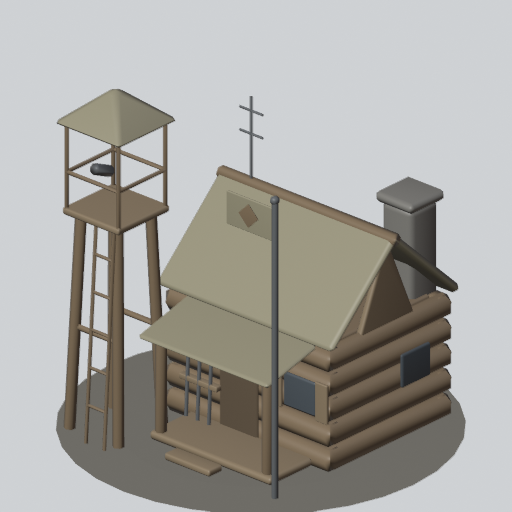
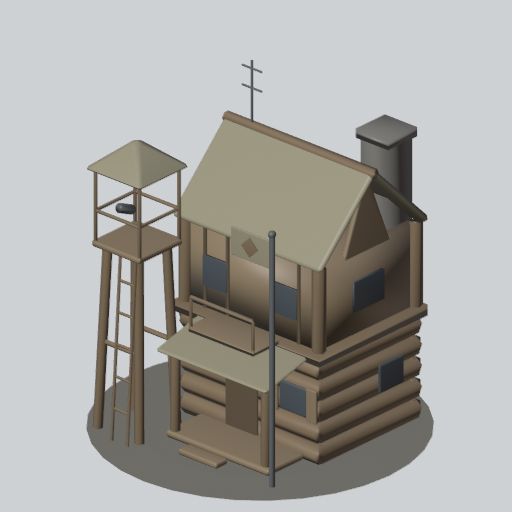
art: Ranger Station (RANGER) bolder upgrades - S1 two-storey lodge with balcony and taller chimney, S2 raised lookout with glowing searchlight, antlers, brass ridge and vane, taller flag (#443)

diff --git a/tools/art/models/tower/_ranger.py b/tools/art/models/tower/_ranger.py
@@ -8,10 +8,13 @@ right corner (the owner flag's) is kept clear: the cabin stops at x 0.8.
 Stage 0 (tiers 0-2): the cabin (log walls, door, shuttered window, sign board), the gable
                      roof, the porch and step, the chimney, the lookout with its ladder and
                      roof, the flagpole and khaki pennant.
-Stage 1 (tier 3):    a radio aerial on the roof, a spotting scope on the lookout, a firewood
-                     pile, a rifle rack on the porch.
-Stage 2 (tier 5):    brass bell on the lookout, a brass badge on the sign, brass lamp on the
-                     porch with a glowing lamp, glowing windows.
+Stage 1 (tier 3):    a TWO-STOREY LODGE - a board-and-batten upper storey on the log cabin with
+                     windows and a little front balcony, the gable roof raised on top, a
+                     taller chimney, a radio aerial, a spotting scope on the lookout.
+Stage 2 (tier 5):    the lookout rises a storey higher with a glowing searchlight and a brass
+                     bell, a brass ridge cap, a great pair of antlers on the upper storey's front with a brass weather vane
+                     on the ridge (the crown), a taller flagpole with a bigger pennant and a
+                     brass finial, glowing windows, a brass porch lamp.
 """
 
 import importlib.util
@@ -36,30 +39,45 @@ RIDGE = 2.2
 def build(lp, stage):
     k = K.Kit(lp)
     hot = stage >= 2
+    lean = stage >= 1
+    wh = WH if stage == 0 else 2.5  # the walls: the lodge grows a second storey
+    ridge = RIDGE if stage == 0 else 3.4
     cx, cz = (CX0 + CX1) / 2, (CZ0 + CZ1) / 2
     w, d = CX1 - CX0, CZ1 - CZ0
 
     # log walls: a core with horizontal logs on the front and sides, log ends at the corners
-    k.add("wood", K.rbox((cx, WH / 2, cz), (w - 0.1, WH, d - 0.1), bevel=0.04))
+    k.add("wood", K.rbox((cx, WH / 2, cz), (w - 0.1, WH, d - 0.1), bevel=0.04 if not lean else 0))
     logs, ends = [], []
     for i in range(5):
         y = 0.14 + i * 0.27
-        logs.append(K.rod((CX0 - 0.04, y, CZ0), (CX1 + 0.04, y, CZ0), 0.13, 6))  # front
-        logs.append(K.rod((CX0, y, CZ0 - 0.04), (CX0, y, CZ1 + 0.04), 0.13, 6))  # left
-        logs.append(K.rod((CX1, y, CZ0 - 0.04), (CX1, y, CZ1 + 0.04), 0.13, 6))  # right
-        logs.append(K.rod((CX0 - 0.04, y, CZ1), (CX1 + 0.04, y, CZ1), 0.13, 6))  # back
+        sg = 5 if lean else 6
+        logs.append(K.rod((CX0 - 0.04, y, CZ0), (CX1 + 0.04, y, CZ0), 0.13, sg))  # front
+        logs.append(K.rod((CX0, y, CZ0 - 0.04), (CX0, y, CZ1 + 0.04), 0.13, sg))  # left
+        logs.append(K.rod((CX1, y, CZ0 - 0.04), (CX1, y, CZ1 + 0.04), 0.13, sg))  # right
+        logs.append(K.rod((CX0 - 0.04, y, CZ1), (CX1 + 0.04, y, CZ1), 0.13, sg))  # back
     k.add("log", *logs)
+    if lean:  # the upper storey: board-and-batten walls, corner posts, a log band at the floor line
+        k.add("plank", K.rbox((cx, (WH + wh) / 2, cz), (w + 0.06, wh - WH, d + 0.06), bevel=0))
+        k.add("log", *[K.rod((x, WH, z), (x, wh + 0.02, z), 0.09, 5) for x in (CX0 - 0.03, CX1 + 0.03) for z in (CZ0 - 0.03, CZ1 + 0.03)],
+              K.rbox((cx, WH + 0.04, cz), (w + 0.26, 0.14, d + 0.26), bevel=0))
+        k.add("dark", *[K.rbox((x, (WH + wh) / 2, CZ0 - 0.035), (0.04, wh - WH, 0.03), bevel=0) for x in (-0.95, -0.55, 0.15, 0.5)])  # battens
+        k.add("glow" if hot else "window", *[K.rbox((x, WH + 0.6, CZ0 - 0.05), (0.36, 0.38, 0.05), bevel=0) for x in (-0.75, 0.33)],
+              K.rbox((CX0 - 0.05, WH + 0.6, cz), (0.05, 0.38, 0.5), bevel=0), piece="windows2")
+        # a little front balcony on the porch roof line
+        k.add("plank", K.rbox((-0.22, WH + 0.1, CZ0 - 0.32), (1.0, 0.07, 0.5), bevel=0))
+        k.add("wood", *[K.rod((-0.22 + sx * 0.48, WH + 0.1, CZ0 - 0.55), (-0.22 + sx * 0.48, WH + 0.5, CZ0 - 0.55), 0.025, 4) for sx in (-1, 1)],
+              K.rod((-0.7, WH + 0.5, CZ0 - 0.55), (0.26, WH + 0.5, CZ0 - 0.55), 0.03, 4))
     # the gable roof (ridge along x), khaki canvas over battens, gable ends in planks
     half = d / 2 + 0.1
-    pitch = math.atan2(RIDGE - WH, half)
-    slab = math.hypot(RIDGE - WH, half) + 0.08
+    pitch = math.atan2(ridge - wh, half)
+    slab = math.hypot(ridge - wh, half) + 0.08
     for s in (-1, 1):
-        k.add("body", K.rbox((cx, (WH + RIDGE) / 2 + 0.06, cz + s * half / 2), (w + 0.3, 0.1, slab), bevel=0.04,
+        k.add("body", K.rbox((cx, (wh + ridge) / 2 + 0.06, cz + s * half / 2), (w + 0.3, 0.1, slab), bevel=0.04,
                              rot=(s * math.degrees(pitch), 0, 0)))
-    k.add("log", K.rod((CX0 - 0.15, RIDGE + 0.06, cz), (CX1 + 0.15, RIDGE + 0.06, cz), 0.07, 6))
+    k.add("brass" if hot else "log", K.rod((CX0 - 0.15, ridge + 0.06, cz), (CX1 + 0.15, ridge + 0.06, cz), 0.07 if not hot else 0.1, 6))
     gable = []
     for x in (CX0, CX1):
-        gable.append(K.rbox((x, (WH + RIDGE) / 2 - 0.08, cz), (0.08, RIDGE - WH - 0.05, d * 0.5), bevel=0.02, taper=(1.0, 0.15)))
+        gable.append(K.rbox((x, (wh + ridge) / 2 - 0.08, cz), (0.08, ridge - wh - 0.05, d * 0.5), bevel=0.02, taper=(1.0, 0.15)))
     k.add("plank", *gable)
 
     # door, window with shutters, sign board over the door
@@ -78,13 +96,14 @@ def build(lp, stage):
     k.add("body", K.rbox((-0.3, 1.27, pz - 0.05), (1.7, 0.07, 0.75), bevel=0.03, rot=(-14, 0, 0)))
 
     # stone chimney at the back-left
-    k.add("stone", K.rbox((CX0 + 0.3, 1.15, CZ1 - 0.1), (0.42, 2.3, 0.42), bevel=0.06),
-          K.rbox((CX0 + 0.3, 2.35, CZ1 - 0.1), (0.5, 0.12, 0.5), bevel=0.04))
+    ch = 2.3 if stage == 0 else 3.55
+    k.add("stone", K.rbox((CX0 + 0.3, ch / 2, CZ1 - 0.1), (0.42, ch, 0.42), bevel=0.06 if not lean else 0),
+          K.rbox((CX0 + 0.3, ch + 0.05, CZ1 - 0.1), (0.5, 0.12, 0.5), bevel=0.04 if not lean else 0))
 
     # the lookout at the front-right: four legs, a deck, a rail, a little roof, a ladder
-    lx, lz, ly = 1.0, -1.0, 2.35
+    lx, lz, ly = 1.0, -1.0, (2.35 if stage < 2 else 3.2)
     legs = [K.rod((lx + sx * 0.32, 0, lz + sz * 0.32), (lx + sx * 0.24, ly, lz + sz * 0.24), 0.06, 6) for sx in (-1, 1) for sz in (-1, 1)]
-    legs += [K.rod((lx - 0.3, 1.1, lz + sz * 0.28), (lx + 0.3, 1.1, lz + sz * 0.28), 0.035, 4) for sz in (-1, 1)]
+    legs += [K.rod((lx - 0.3, y, lz + sz * 0.28), (lx + 0.3, y, lz + sz * 0.28), 0.035, 4) for sz in (-1, 1) for y in ((1.1,) if stage < 2 else (1.1, 2.2))]
     k.add("log", *legs)
     k.add("plank", K.rbox((lx, ly, lz), (0.75, 0.08, 0.75), bevel=0.02))
     rail = [K.rod((lx + sx * 0.34, ly, lz + sz * 0.34), (lx + sx * 0.34, ly + 0.95, lz + sz * 0.34), 0.03, 4) for sx in (-1, 1) for sz in (-1, 1)]
@@ -93,39 +112,55 @@ def build(lp, stage):
     k.add("wood", *rail)
     k.add("body", K.rbox((lx, ly + 1.12, lz), (0.9, 0.35, 0.9), bevel=0.04, taper=(0.1, 0.1)))
     ladder = [K.rod((lx - 0.15 + dx, 0, lz - 0.47), (lx - 0.15 + dx, ly, lz - 0.32), 0.025, 4) for dx in (-0.12, 0.12)]
-    ladder += [K.rod((lx - 0.27, y, lz - 0.47 + 0.15 * y / ly), (lx - 0.03, y, lz - 0.47 + 0.15 * y / ly), 0.02, 4) for y in (0.4, 0.8, 1.2, 1.6, 2.0)]
+    ladder += [K.rod((lx - 0.27, y, lz - 0.47 + 0.15 * y / ly), (lx - 0.03, y, lz - 0.47 + 0.15 * y / ly), 0.02, 4)
+               for y in ((0.4, 0.8, 1.2, 1.6, 2.0) if stage < 2 else (0.4, 0.9, 1.4, 1.9, 2.4, 2.9))]
     k.add("wood", *ladder)
 
     # flagpole at the front-left with a khaki pennant
     fx, fzz = -1.22, -1.15
-    k.add("metal", K.rod((fx, 0, fzz), (fx, 3.2, fzz), 0.035, 6), K.ell((fx, 3.22, fzz), (0.05, 0.05, 0.05), 6, 4))
-    k.add("body", K.rbox((fx + 0.33, 2.95, fzz), (0.6, 0.36, 0.03), bevel=0.01))
-    k.add("log", K.rbox((fx + 0.33, 2.95, fzz - 0.02), (0.18, 0.18, 0.01), bevel=0.0, rot=(0, 0, 45)))  # a pine-brown diamond
+    fh, fs = (3.2, 1.0) if stage < 2 else (4.35, 1.6)  # flagpole height, pennant scale
+    k.add("metal", K.rod((fx, 0, fzz), (fx, fh, fzz), 0.035 if stage < 2 else 0.05, 6))
+    k.add("brass" if hot else "metal", K.ell((fx, fh + 0.02, fzz), (0.05 * fs, 0.05 * fs, 0.05 * fs), 6, 4))
+    k.add("body", K.rbox((fx + 0.03 + 0.3 * fs, fh - 0.25 * fs, fzz), (0.6 * fs, 0.36 * fs, 0.03), bevel=0.01))
+    k.add("log", K.rbox((fx + 0.03 + 0.3 * fs, fh - 0.25 * fs, fzz - 0.02), (0.18 * fs, 0.18 * fs, 0.01), bevel=0.0, rot=(0, 0, 45)))  # a pine-brown diamond
 
     brass = []
     if stage >= 1:
         # a radio aerial on the roof
-        k.add("metal", K.rod((CX1 - 0.25, RIDGE, cz), (CX1 - 0.25, RIDGE + 1.0, cz), 0.02, 4),
-              *[K.rod((CX1 - 0.4, RIDGE + y, cz), (CX1 - 0.1, RIDGE + y, cz), 0.015, 4) for y in (0.6, 0.85)])
+        k.add("metal", K.rod((CX1 - 0.25, ridge, cz), (CX1 - 0.25, ridge + 0.9, cz), 0.02, 4),
+              *[K.rod((CX1 - 0.4, ridge + y, cz), (CX1 - 0.1, ridge + y, cz), 0.015, 4) for y in (0.55, 0.8)])
         # a spotting scope on the lookout rail
         k.add("metal", K.rod((lx - 0.1, ly + 0.52, lz - 0.2), (lx - 0.1, ly + 0.62, lz - 0.42), 0.06, 8))
-        # firewood pile against the right wall (clear of the flag corner)
-        logs2 = [K.rod((1.0 + c * 0.13 + r * 0.065, 0.08 + r * 0.12, 0.05), (1.0 + c * 0.13 + r * 0.065, 0.08 + r * 0.12, 0.6), 0.06, 6)
-                 for r in range(3) for c in range(3 - r)]
-        k.add("firewood", *logs2)
-        # a rifle rack on the porch
-        k.add("plank", K.rbox((0.3, 0.55, CZ0 - 0.2), (0.5, 0.06, 0.08), bevel=0.01))
-        k.add("metal", *[K.rod((0.3 + dx, 0.15, CZ0 - 0.24), (0.3 + dx, 0.95, CZ0 - 0.2), 0.025, 4) for dx in (-0.15, 0.0, 0.15)])
 
     if hot:
-        brass += [K.rod((lx, ly + 0.95, lz), (lx, ly + 0.82, lz), 0.015, 4), K.cyl((lx, ly + 0.74, lz), (0.11, 0.11), 0.16, 8, top=0.5)]  # bell
-        brass.append(K.cyl((-0.15, 1.2, fz - 0.07), 0.08, 0.02, 8, rot=(90, 0, 0)))  # badge
-        brass += [K.rod((-1.0, 1.1, pz - 0.24), (-1.0, 1.1, pz - 0.4), 0.02, 4), K.cyl((-1.0, 1.04, pz - 0.42), 0.08, 0.04, 8)]
-        k.add("glow", K.ell((-1.0, 0.92, pz - 0.42), (0.08, 0.1, 0.08), 8, 5), piece="lamp")
+        # a glowing searchlight on the raised lookout, a brass bell under its roof
+        k.add("metal", K.rod((lx + 0.15, ly, lz + 0.1), (lx + 0.15, ly + 0.35, lz + 0.1), 0.04, 4),
+              K.rod((lx + 0.15, ly + 0.45, lz + 0.18), (lx + 0.15, ly + 0.55, lz - 0.15), 0.17, 8, top=1.2))
+        k.add("glow", K.cyl((lx + 0.15, ly + 0.555, lz - 0.17), 0.19, 0.04, 8, rot=(-75, 0, 0), bevel=0), piece="lamp")
+        brass += [K.rod((lx, ly + 0.95, lz), (lx, ly + 0.82, lz), 0.015, 4), K.cyl((lx, ly + 0.72, lz), (0.12, 0.12), 0.18, 8, top=0.5, bevel=0)]
+        # the crown: great antlers on the upper storey's front, a brass weather vane on the ridge
+        ax, ay, az = -0.22, wh - 0.05, CZ0 - 0.1  # over the balcony, on the upper storey's front wall
+        ant = [K.ell((ax, ay, az), (0.13, 0.1, 0.08), 6, 3)]
+        for sx in (-1, 1):
+            base = (ax + sx * 0.1, ay + 0.04, az - 0.04)
+            beam = (ax + sx * 0.66, ay + 0.62, az - 0.22)
+            ant.append(K.rod(base, beam, 0.06, 5, top=0.6))
+            for t, up, out in ((0.35, 0.32, 0.04), (0.65, 0.36, 0.1), (1.0, 0.3, 0.18)):
+                pt = K.along(base, beam, t)
+                ant.append(K.rod(pt, (pt[0] + sx * out, pt[1] + up, pt[2] - 0.05), 0.038, 4, top=0.3))
+        k.add("antler", *ant)
+        vx = cx + 0.4
+        brass += [K.rod((vx, ridge + 0.1, cz), (vx, ridge + 0.8, cz), 0.03, 4),
+                  K.rod((vx - 0.3, ridge + 0.6, cz), (vx + 0.3, ridge + 0.6, cz), 0.025, 4),
+                  K.rbox((vx + 0.33, ridge + 0.6, cz), (0.16, 0.16, 0.03), bevel=0, taper=(0.2, 1.0)),
+                  K.ell((vx, ridge + 0.82, cz), (0.06, 0.06, 0.06), 6, 3)]
+        # a brass porch lamp, glowing
+        brass += [K.rod((-1.0, 1.1, pz - 0.24), (-1.0, 1.1, pz - 0.4), 0.02, 4), K.cyl((-1.0, 1.04, pz - 0.42), 0.08, 0.04, 8, bevel=0)]
+        k.add("glow", K.ell((-1.0, 0.92, pz - 0.42), (0.08, 0.1, 0.08), 6, 4), piece="porchlamp")
         k.add("brass", *brass)
 
     colors = {
         "body": KHAKI, "wood": K.WOOD, "log": LOG, "plank": (150, 112, 72), "firewood": LOG_END, "dark": K.DARK,
-        "window": WINDOW, "sign": K.SAND, "stone": STONE, "metal": K.METAL, "brass": K.BRASS, "glow": GLOW,
+        "window": WINDOW, "sign": K.SAND, "stone": STONE, "antler": (226, 214, 186), "metal": K.METAL, "brass": K.BRASS, "glow": GLOW,
     }
     return k.model("11d", colors, "RANGER", stage)
